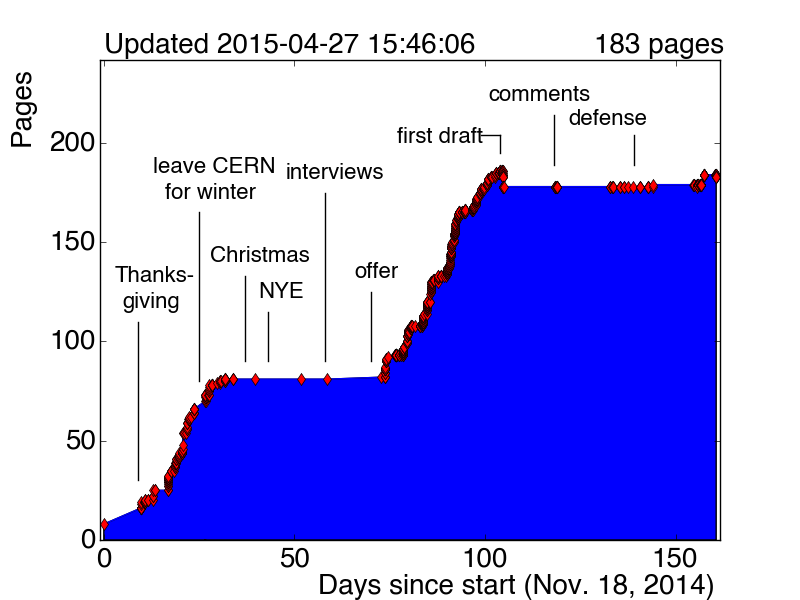
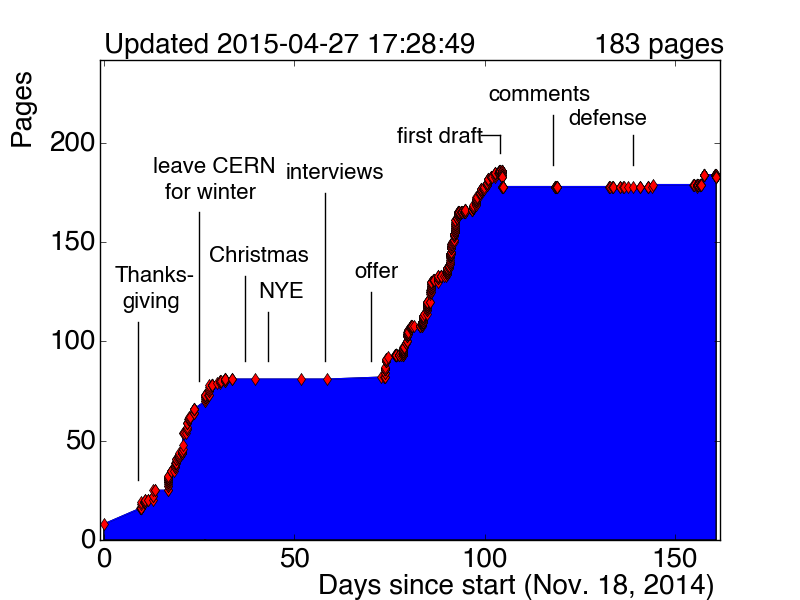
prepping penn draft

diff --git a/tex/prospects.tex b/tex/prospects.tex
@@ -260,7 +260,7 @@ Despite significantly harsher data-taking conditions in 2015, triggers for the $
   \label{tab:prospects-taumenu}
 \end{table}
 
-Contingency plans are considered due to the uncertainty of the rate prediction and the uncertainty of the LHC data-taking conditions. If the $\Htautau$ section of the $\tauh$ L1 menu is asked to reduce its rate, options like raising the $\tauh$ threshold of the $\LTT$ triggers or raising the jet threshold of all triggers are available with minor physics losses. If additional rate is available, the jet threshold or $\Delta R(\tau\tau)$ requirement can be relaxed. The contingencies are shown in \cref{tab:prospects-contingencies}.
+Contingency plans are considered due to the uncertainty of the rate prediction and the uncertainty of the LHC data-taking conditions. If the $\Htautau$ section of the $\tauh$ L1 menu is asked to reduce its bandwidth consumption, options are available with minor physics losses, such as raising the $\tauh$ threshold of the $\LTT$ triggers or raising the jet threshold of all triggers. If additional bandwidth is available, the jet threshold or $\Delta R(\tau\tau)$ requirement can be relaxed. The contingencies are shown in \cref{tab:prospects-contingencies}.
 
 \begin{table}[bp]
   \centering

diff --git a/pages.md b/pages.md
@@ -950,3 +950,5 @@
 + [2015-04-27-14h41m20s] 183
 + [2015-04-27-14h45m52s] 183
 + [2015-04-27-15h46m06s] 183
++ [2015-04-27-17h27m33s] 183
++ [2015-04-27-17h28m49s] 183
